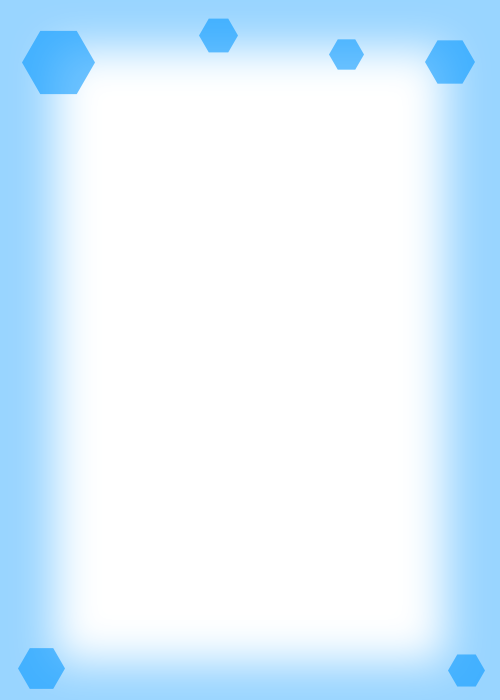
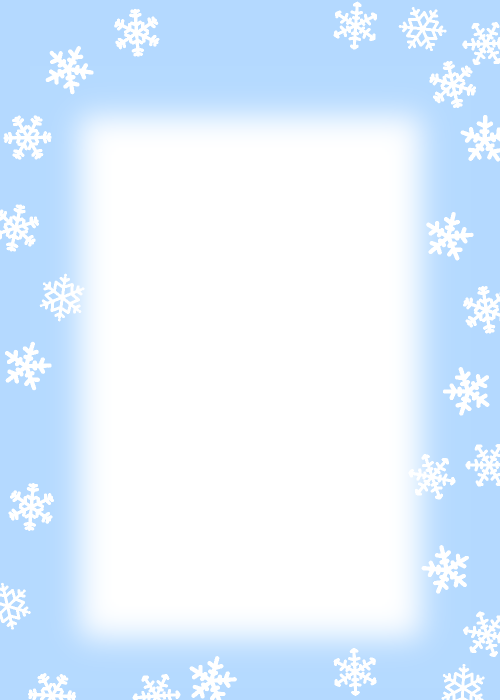
affliction美观

diff --git a/ShuyuCode/Characters/ShuyuCardPool.cs b/ShuyuCode/Characters/ShuyuCardPool.cs
@@ -7,7 +7,7 @@ namespace Shuyu.Characters;
 public sealed class ShuyuCardPool : TypeListCardPoolModel
 {
     private static readonly Material? PoolFrameTintMaterial =
-        MaterialUtils.CreateRgbShaderMaterial(0.42f, 0.65f, 0.72f);
+        MaterialUtils.CreateHsvShaderMaterial(0.9f, 0.36f, 2f);
 
     // Title 和 EnergyColorName 是池子的稳定标识，不是玩家看到的角色名。
     // 自定义角色卡、遗物、药水池保持同一个 EnergyColorName，方便实验室和文本统一读取能量图标。

diff --git a/ShuyuCode/Characters/ShuyuCharacter.cs b/ShuyuCode/Characters/ShuyuCharacter.cs
@@ -10,7 +10,7 @@ namespace Shuyu.Characters;
 [RegisterCharacter]
 public sealed class ShuyuCharacter : ModCharacterTemplate<ShuyuCardPool, ShuyuRelicPool, ShuyuPotionPool>
 {
-    public static readonly Color ThemeColor = new(0.42f, 0.65f, 0.72f);
+    public static readonly Color ThemeColor = new(0.9f, 0.36f, 2f);
 
     private const string SceneRoot = $"{Entry.ResPath}/scenes/characters";
     private const string ImageRoot = $"{Entry.ResPath}/images/characters";
